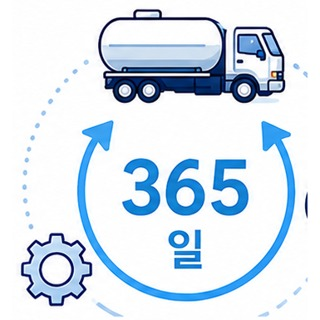
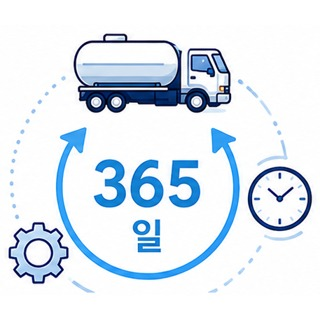
가스제품 KLCC GAS: 안정적 공급(365일) 아이콘 잘림 수정(시계 포함 전체 재추출), 아이콘 크기 확대(72→92px). style.css ?v=239, ic-days ?v=20260828b

diff --git a/products-gas.html b/products-gas.html
@@ -7,7 +7,7 @@
   <meta name="description" content="산업용·의료용·혼합·특수·액화석유가스 — 고순도 산소·질소·아르곤·수소·헬륨·탄산·LPG를 Bulk·실린더로 공급·제조합니다.">
   <link rel="stylesheet" href="assets/css/reset.css">
   <link rel="stylesheet" href="assets/css/variables.css?v=20260801">
-  <link rel="stylesheet" href="assets/css/style.css?v=20260731-238">
+  <link rel="stylesheet" href="assets/css/style.css?v=20260731-239">
 </head>
 <body>
 
@@ -129,7 +129,7 @@
               <span class="klccgas__label">사용 환경에 맞은 공급</span>
             </li>
             <li class="klccgas__card">
-              <span class="klccgas__ic klccgas__ic--img" aria-hidden="true"><img src="assets/images/site/klccgas/ic-days.jpg?v=20260828" alt="" loading="lazy"></span>
+              <span class="klccgas__ic klccgas__ic--img" aria-hidden="true"><img src="assets/images/site/klccgas/ic-days.jpg?v=20260828b" alt="" loading="lazy"></span>
               <span class="klccgas__label">안정적 공급</span>
             </li>
           </ul>

diff --git a/assets/css/style.css b/assets/css/style.css
@@ -1661,7 +1661,7 @@ html[lang="en"] .greeting__sign .sign-name { display: block; margin-left: 0; mar
 .klccgas__card { background: var(--surface); border: 1px solid var(--border); border-radius: var(--radius-lg); box-shadow: var(--shadow-sm); padding: var(--space-6) var(--space-3); text-align: center; display: flex; flex-direction: column; align-items: center; }
 .klccgas__ic { width: 54px; height: 54px; display: inline-flex; align-items: center; justify-content: center; color: var(--brand); margin-bottom: var(--space-3); }
 .klccgas__ic svg { width: 40px; height: 40px; }
-.klccgas__ic--img { width: 72px; height: 72px; }
+.klccgas__ic--img { width: 92px; height: 92px; }
 .klccgas__ic--img img { width: 100%; height: 100%; object-fit: contain; display: block; }
 .klccgas__num { font-size: 1.55rem; font-weight: 800; color: var(--eyebrow); line-height: 1.1; }
 .klccgas__num--sm { font-size: 1.1rem; }

diff --git a/company.html b/company.html
@@ -7,7 +7,7 @@
   <meta name="description" content="한국탄산화학㈜ 회사소개 — 회사 개요, 주요 사업 영역, 연혁, 조직도, 생산시설 및 강점.">
   <link rel="stylesheet" href="assets/css/reset.css">
   <link rel="stylesheet" href="assets/css/variables.css?v=20260801">
-  <link rel="stylesheet" href="assets/css/style.css?v=20260731-238">
+  <link rel="stylesheet" href="assets/css/style.css?v=20260731-239">
   <!-- 대표이사 서명용 손글씨 폰트 (한글: Nanum Pen Script, 일어: Yomogi) -->
   <link rel="preconnect" href="https://fonts.googleapis.com">
   <link rel="preconnect" href="https://fonts.gstatic.com" crossorigin>

diff --git a/company-overview.html b/company-overview.html
@@ -8,7 +8,7 @@
   <meta name="description" content="한국탄산화학㈜ 회사 개요와 조직도 — 상호·설립·사업분야·생산제품 및 조직 구성.">
   <link rel="stylesheet" href="assets/css/reset.css">
   <link rel="stylesheet" href="assets/css/variables.css?v=20260801">
-  <link rel="stylesheet" href="assets/css/style.css?v=20260731-238">
+  <link rel="stylesheet" href="assets/css/style.css?v=20260731-239">
   <!-- 대표이사 서명용 손글씨 폰트 (한글: Nanum Pen Script, 일어: Yomogi) -->
   <link rel="preconnect" href="https://fonts.googleapis.com">
   <link rel="preconnect" href="https://fonts.gstatic.com" crossorigin>

diff --git a/company-network.html b/company-network.html
@@ -7,7 +7,7 @@
   <meta name="description" content="한국탄산화학㈜ 계열사 — 관계사 네트워크.">
   <link rel="stylesheet" href="assets/css/reset.css">
   <link rel="stylesheet" href="assets/css/variables.css?v=20260801">
-  <link rel="stylesheet" href="assets/css/style.css?v=20260731-238">
+  <link rel="stylesheet" href="assets/css/style.css?v=20260731-239">
   <!-- 대표이사 서명용 손글씨 폰트 (한글: Nanum Pen Script, 일어: Yomogi) -->
   <link rel="preconnect" href="https://fonts.googleapis.com">
   <link rel="preconnect" href="https://fonts.gstatic.com" crossorigin>

diff --git a/products-supply.html b/products-supply.html
@@ -7,7 +7,7 @@
   <meta name="description" content="고압가스 용기 재검사 — 한국가스안전공사 지정 전문검사기관 ㈜부성테크니컬(계열사)이 접수·내압시험·표면처리·판정의 4단계 검사로 용기 안전을 책임집니다.">
   <link rel="stylesheet" href="assets/css/reset.css">
   <link rel="stylesheet" href="assets/css/variables.css?v=20260801">
-  <link rel="stylesheet" href="assets/css/style.css?v=20260731-238">
+  <link rel="stylesheet" href="assets/css/style.css?v=20260731-239">
 </head>
 <body>
 

diff --git a/products-ice.html b/products-ice.html
@@ -7,7 +7,7 @@
   <meta name="description" content="드라이아이스 너겟·블록 생산설비 日産 36톤. 고밀도 1.60g/㎤·고순도 99.995% 식품용 드라이아이스와 제조공정·용도·취급안전을 소개합니다.">
   <link rel="stylesheet" href="assets/css/reset.css">
   <link rel="stylesheet" href="assets/css/variables.css?v=20260801">
-  <link rel="stylesheet" href="assets/css/style.css?v=20260731-238">
+  <link rel="stylesheet" href="assets/css/style.css?v=20260731-239">
 </head>
 <body>
 

diff --git a/index.html b/index.html
@@ -7,7 +7,7 @@
   <meta name="description" content="한국탄산화학㈜(KLCC)는 산소·질소·아르곤·탄산·수소 등 산업용·의료용 가스와 드라이아이스를 제조·공급하는 전문기업입니다.">
   <link rel="stylesheet" href="assets/css/reset.css">
   <link rel="stylesheet" href="assets/css/variables.css?v=20260801">
-  <link rel="stylesheet" href="assets/css/style.css?v=20260731-238">
+  <link rel="stylesheet" href="assets/css/style.css?v=20260731-239">
 </head>
 <body>
 

diff --git a/products-construction.html b/products-construction.html
@@ -7,7 +7,7 @@
   <meta name="description" content="가스 설비 시설·시공 — 액화가스 저장탱크·기화설비·배관·공급설비를 설계부터 시운전·사후관리까지 원스톱으로 시공합니다.">
   <link rel="stylesheet" href="assets/css/reset.css">
   <link rel="stylesheet" href="assets/css/variables.css?v=20260801">
-  <link rel="stylesheet" href="assets/css/style.css?v=20260731-238">
+  <link rel="stylesheet" href="assets/css/style.css?v=20260731-239">
 </head>
 <body>
 

diff --git a/quality.html b/quality.html
@@ -7,7 +7,7 @@
   <meta name="description" content="고순도 제조 역량, 식품첨가물 탄산가스 품질, 용기검사장, Gas Service Team.">
   <link rel="stylesheet" href="assets/css/reset.css">
   <link rel="stylesheet" href="assets/css/variables.css?v=20260801">
-  <link rel="stylesheet" href="assets/css/style.css?v=20260731-238">
+  <link rel="stylesheet" href="assets/css/style.css?v=20260731-239">
 </head>
 <body>
 

diff --git a/support.html b/support.html
@@ -7,7 +7,7 @@
   <meta name="description" content="한국탄산화학 고객지원 — 사업장 연락처, 자주 묻는 질문.">
   <link rel="stylesheet" href="assets/css/reset.css">
   <link rel="stylesheet" href="assets/css/variables.css?v=20260801">
-  <link rel="stylesheet" href="assets/css/style.css?v=20260731-238">
+  <link rel="stylesheet" href="assets/css/style.css?v=20260731-239">
 </head>
 <body>
 
